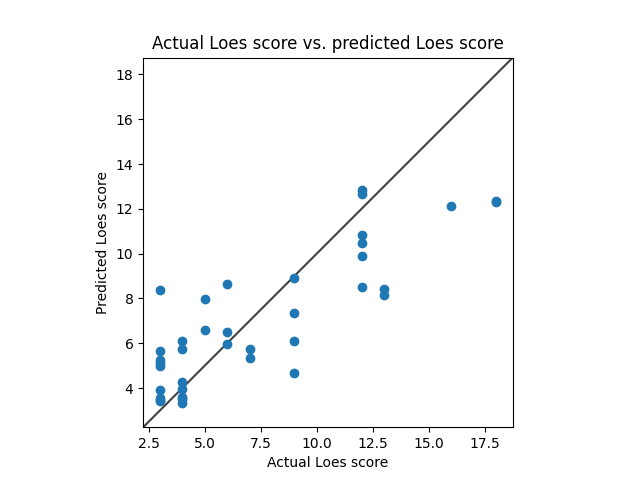
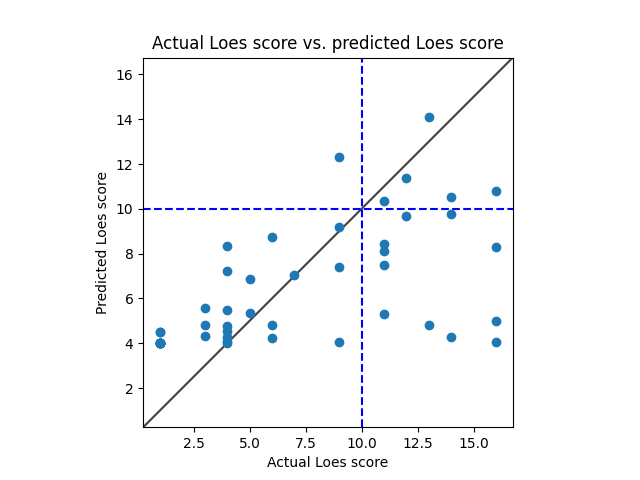
Redid Model 3 with stratification by score.

diff --git a/doc/LoesScoreModels.md b/doc/LoesScoreModels.md
@@ -11,12 +11,12 @@
 
 # Model 3
 * data: all of Ashish's data
-* Standardized RMSE: 0.8681073956588595
+* Standardized RMSE: 1.5147905732513833
 ![Model 3](./img/model03.png "Model 3")
-* correlation:    0.843721682323223
-* p-value:        2.9023678644837652e-11
-* standard error: 0.05826465079588512
-* SLURM script: *../src/dcan/training/loes-scoring-training_model03_mesabi.sh*
+* correlation:    0.5906378280816
+* p-value:        9.907172115387848e-06
+* standard error: 0.06313512016386402
+* SLURM script: *../bin/loes-scoring-training_model03_mesabi.sh*
 * Model: */home/feczk001/shared/data/AlexNet/LoesScoring/loes_scoring_03.pt*
 * Epochs: 512
 
